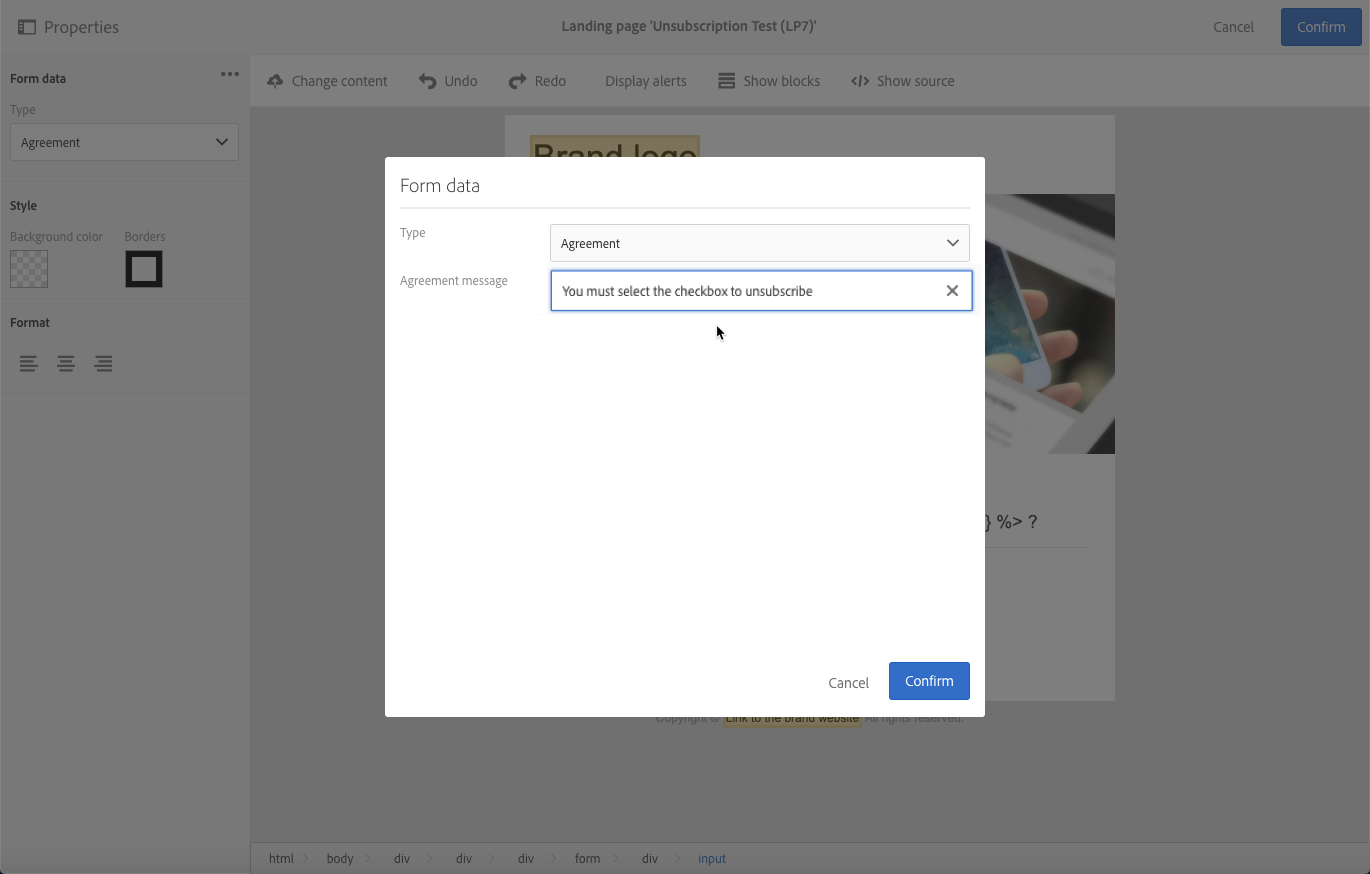
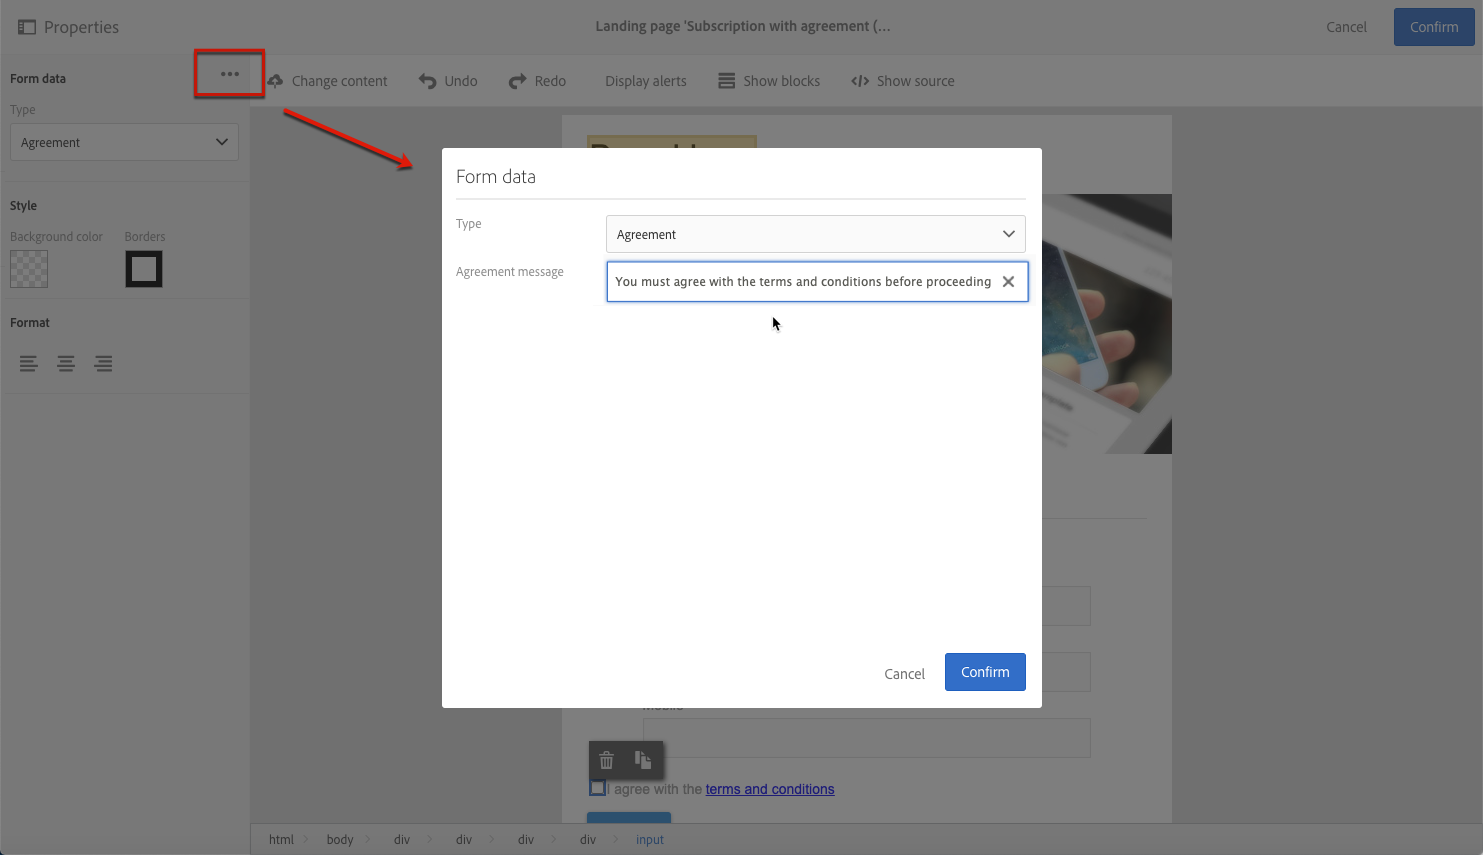
DOCAC-6350 final edits (ready for pub)

diff --git a/help/channels/using/managing-landing-page-form-data.md b/help/channels/using/managing-landing-page-form-data.md
@@ -61,7 +61,7 @@ To do this:
 
 You can add a checkbox that the profile is required to check before submitting the landing page.
 
-This allows you to request users' consent for privacy policy, or to make them accept your terms and conditions, before they submit the form.
+For example, this allows you to request users' consent for privacy policy, or to make them accept your terms and conditions, before they submit the form.
 
 <!--This is particularly useful in the following case:
 
@@ -71,19 +71,22 @@ When a profile opens the landing page from an Outlook.com mailbox, Outlook check
 
 To avoid this, Adobe recommends you always add to your landing page a checkbox which enables the profile to agree before proceeding with subscription or unsubscription.-->
 
->[!NOTE]
+>[!IMPORTANT]
 >
->Selecting this checkbox is mandatory for the user. If not selected, the profile will not be able to submit the landing page.
+>Selecting this checkbox is mandatory for your users. If not selected, they will not be able to submit the landing page.
 
 To insert and configure this checkbox, do the following:
 
-1. When designing the landing page, manually insert a checkbox by clicking **[!UICONTROL Show source]**, such as in the example below:
+1. When designing the landing page, click **[!UICONTROL Show source]**.
 
-   <!--![](assets/lp_show_source.png)-->
+   ![](assets/lp_show_source.png)
+
+1. Manually insert a checkbox, such as in the example below:
+
    ![](assets/lp_checkbox_code.png)
 
    <!--
-   <div id="HtmlPage_htmlPage.line3" data-nl-format="datetime"><input type="checkbox" class="nl-dce-todo" data-nl-bindto="agreement" data-nl-agreementmsg="Please tick the box to confirm" />I agree</div>
+   <div id="HtmlPage_htmlPage.line3" data-nl-format="datetime"><input type="checkbox" class="nl-dce-todo" data-nl-bindto="agreement" data-nl-agreementmsg="You must agree with the terms and conditions before proceeding" />I agree with the terms and conditions</div>
    -->
 
 1. Click **[!UICONTROL Hide source]**.
@@ -98,13 +101,15 @@ To insert and configure this checkbox, do the following:
 
    >[!NOTE]
    >
-   >This element from the list is not mapped to a field of the Campaign database.
+   >The **[!UICONTROL Agreement]** element is not mapped to a field of the Campaign database.
 
-1. Click the three dots next to **[!UICONTROL Form data]** to access the checkbox advanced properties.
+1. Click the ![](assets/lp-properties-icon.png) icon next to **[!UICONTROL Form data]** to access the checkbox advanced properties.
 
-1. You can edit the message if needed. This text will display as a warning if the user does not select the checkbox before submitting the form.
+1. You can edit the message if needed.
 
    ![](assets/lp_agreement_message.png)
+
+   This text will display as a warning if the user does not select the checkbox before submitting the form.
 
    >[!NOTE]
    >
@@ -112,4 +117,4 @@ To insert and configure this checkbox, do the following:
 
 1. Click **[!UICONTROL Confirm]**.
 
-Now, each time a landing page is displayed, the profile will have to select this checkbox before submitting the form. If not, the designed message will display and the user will not be able to submit the form until the checkbox is activated.
+Now, each time the landing page is displayed, the user will have to select this checkbox before submitting the form. If not, the warning will display and the user will not be able to submit the form until the checkbox is activated.

diff --git a/help/sending/using/design-and-personalize.md b/help/sending/using/design-and-personalize.md
@@ -88,7 +88,7 @@ If the limit is reached, the message that exceeds the limit will fail and an err
 
 Adobe recommmends keeping the maximum message size default value. However, this value can be changed in the **[!UICONTROL Maximum message size]** option, through the **[!UICONTROL Administration]** > **[!UICONTROL Application settings]** > **[!UICONTROL Options]** menu, by [functional administrators](../../administration/using/users-management.md#functional-administrators) only.
 
->[!CAUTION]
+>[!IMPORTANT]
 >
 >If you set this value to zero, no limit will be applied.
 
